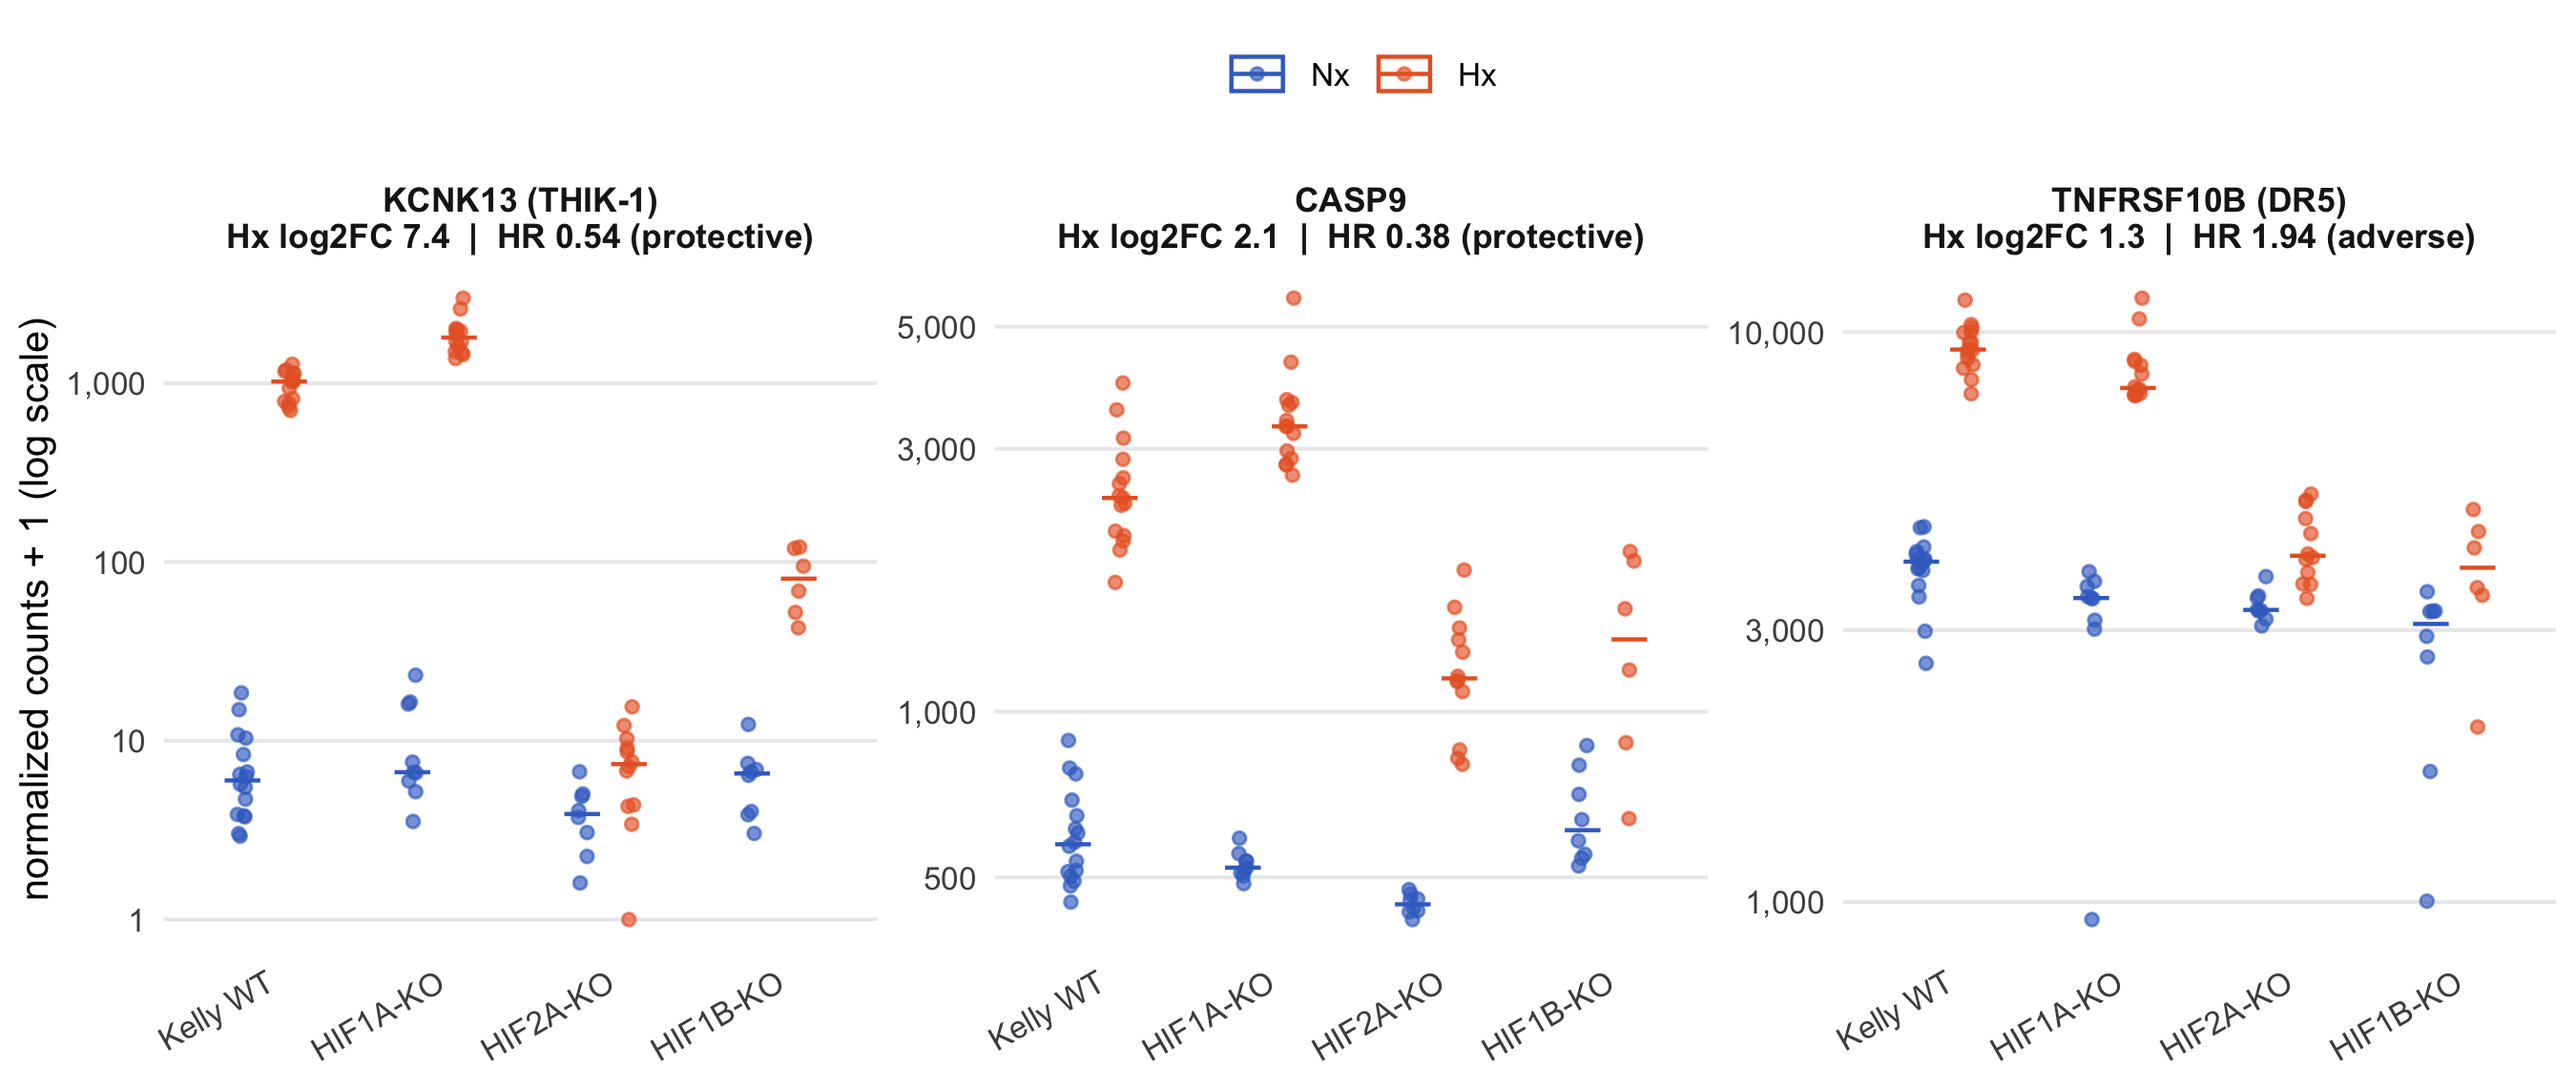
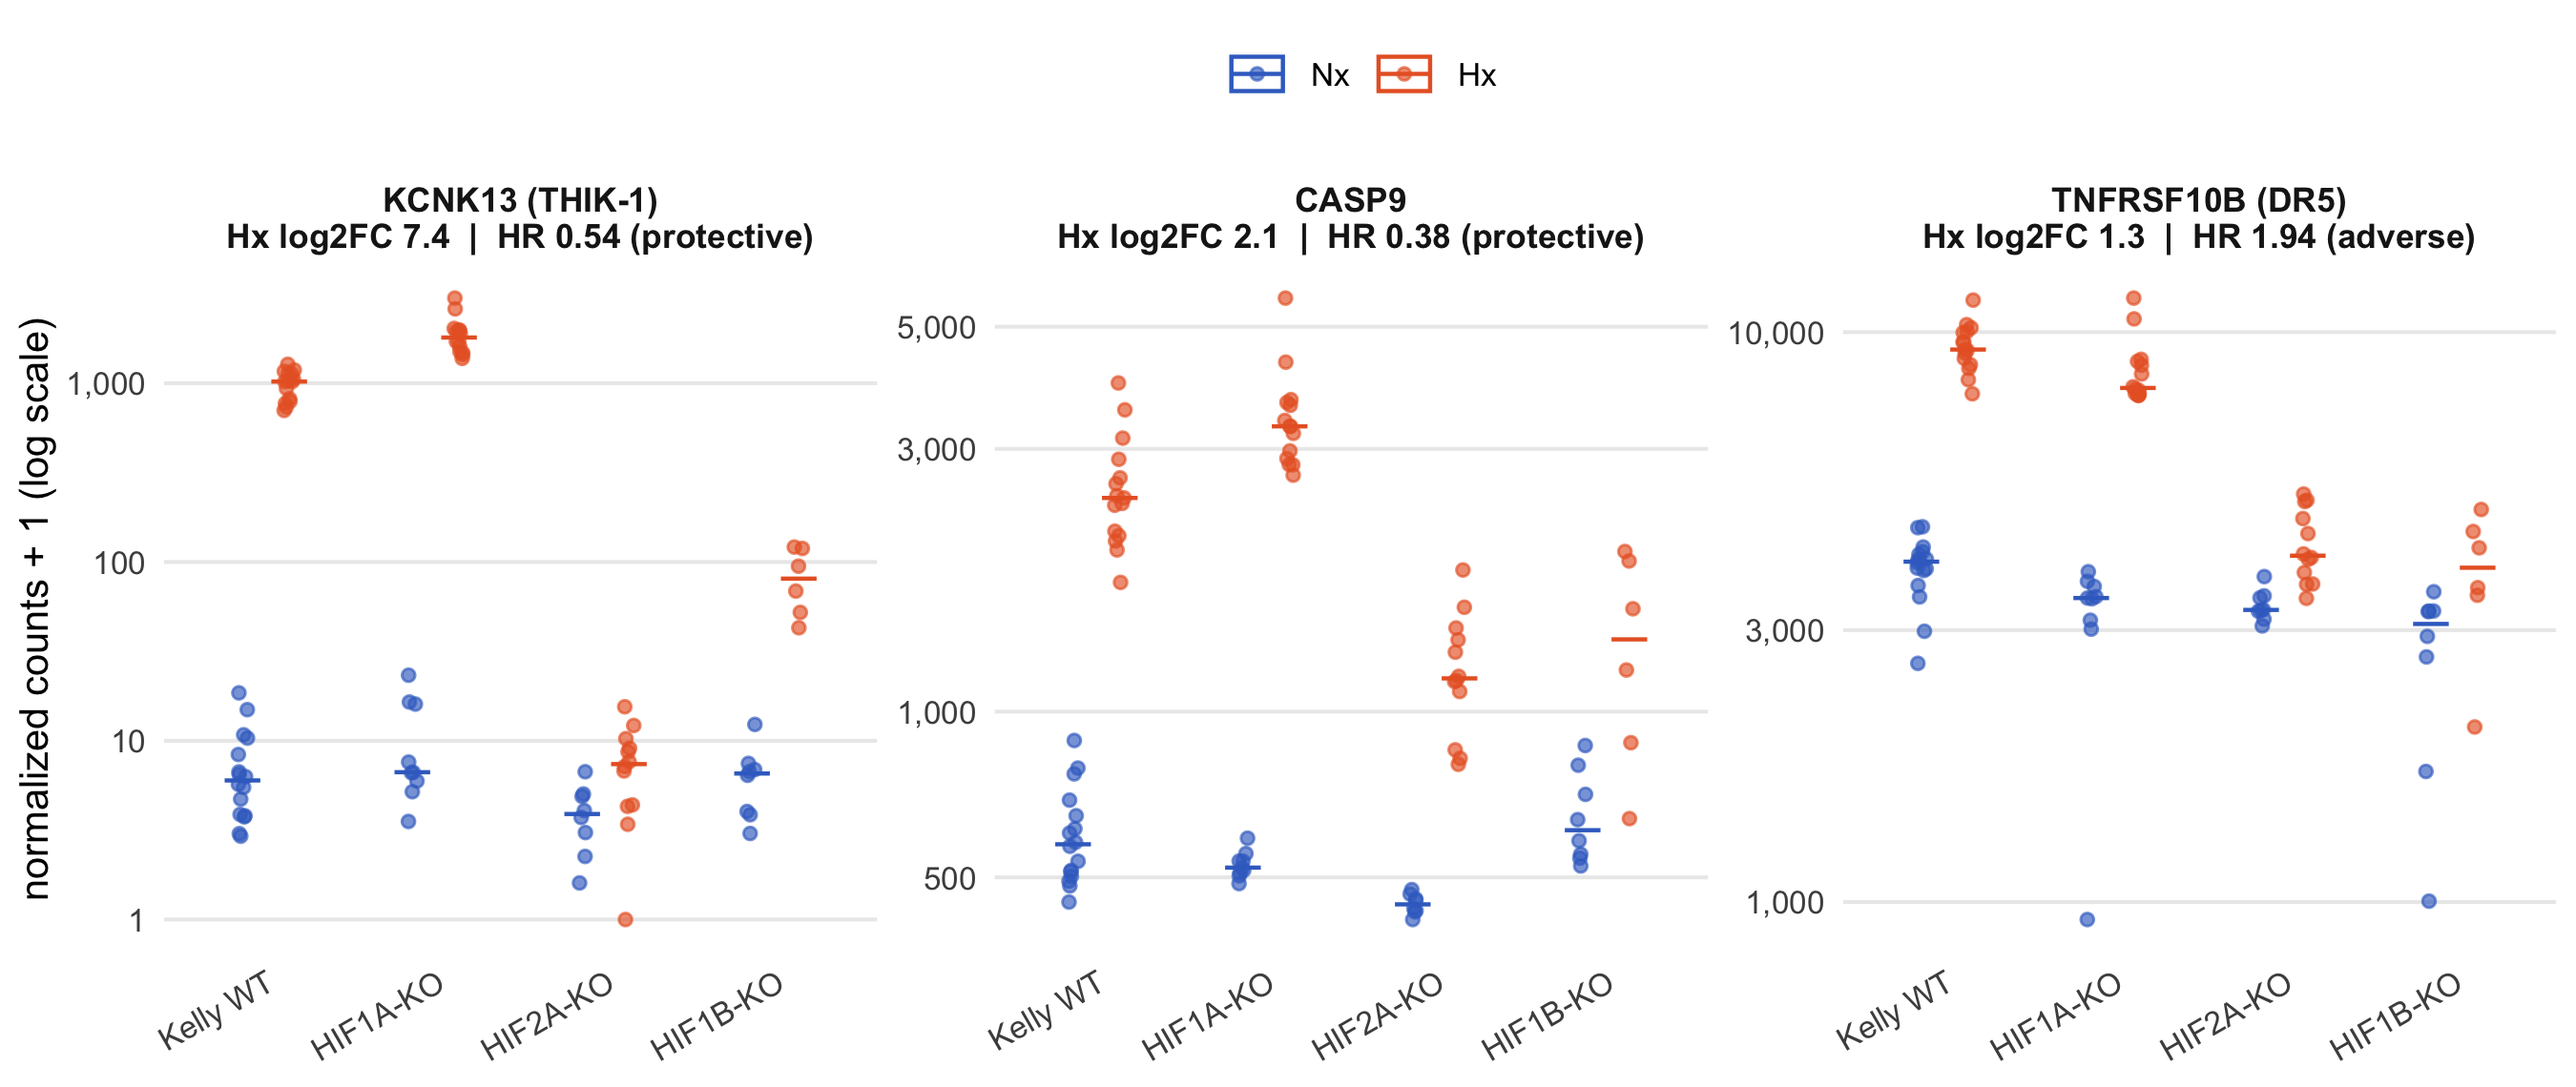
UMAP without tumour inputs, HIF1A KO panel

diff --git a/6_XM_data_merge/Dive.md b/6_XM_data_merge/Dive.md
@@ -1389,20 +1389,23 @@ the per-gene response with Kelly**
 ## 6. UMAP of all hypoxia-regulated genes
 
 All hypoxia-regulated genes (DEG in at least one of the three lines)
-with survival and tumour data, one point per gene. Unlike the heatmap
-clustering, *every* data type goes into the embedding, as four blocks:
+with survival data, one point per gene. Unlike the heatmap clustering,
+the embedding uses the HR and expression level as well, as three blocks:
 
 - **log2 Hx vs Nx** in the six panels (three lines, three KOs)
 - **log2 HR**
 - **log10 baseMean** in the three lines
-- **tumours**, as three contrasts of the mean z: MYCN amplified − not,
-  non-amp MYCN high − low, deceased − event-free (the seven group means
-  are largely redundant)
+
+The tumour data are left out: their contrasts are almost the same
+variable as the HR (the HR comes from the same cohort, Spearman 0.86 -
+0.95), so they would let the clinical axis enter several times. MYCN
+amplification is shown as a colour only.
 
 Every column is scaled, and every block is divided by √(number of
 columns), so each block weighs the same regardless of how many columns
 it has. The panels show the same embedding, coloured by one variable
-each.
+each; the KO panels show the difference of the Hx response between the
+KO and Kelly WT.
 
 <details>
 
@@ -1421,13 +1424,11 @@ tum_contrast <- cbind(
   `deceased - event-free` = tum_grp_mean[, "deceased (91)"]      - tum_grp_mean[, "event-free (323)"])
 log2_hr <- setNames(log2(hr_vals$HR), hr_vals$Ensembl)
 bm_mat  <- base_means %>% tibble::column_to_rownames("Ensembl") %>% as.matrix()
-umap_ens <- Reduce(intersect, list(umap_ens, rownames(tum_contrast),
-                                   names(log2_hr)[!is.na(log2_hr)]))
+umap_ens <- intersect(umap_ens, names(log2_hr)[!is.na(log2_hr)])
 
 umap_blocks <- list(log2     = hx_resp_all[umap_ens, ],
                     HR       = cbind(log2HR = log2_hr[umap_ens]),
-                    baseMean = log10(bm_mat[umap_ens, ] + 1),
-                    tumours  = tum_contrast[umap_ens, ])
+                    baseMean = log10(bm_mat[umap_ens, ] + 1))
 umap_x <- do.call(cbind, lapply(umap_blocks, function(b) scale(b) / sqrt(ncol(b))))
 set.seed(1)
 umap_xy <- uwot::umap(umap_x, n_neighbors = 30, min_dist = 0.3)
@@ -1436,11 +1437,11 @@ ud <- tibble(Ensembl = umap_ens, U1 = umap_xy[, 1], U2 = umap_xy[, 2],
              target   = ifelse(umap_ens %in% names(targets), targets[umap_ens], "none"),
              pattern  = hx_pattern(umap_ens),
              kelly    = hx_resp_all[umap_ens, "Kelly"],
+             hif1a_ko = hx_resp_all[umap_ens, "HIF1A KO"] - hx_resp_all[umap_ens, "Kelly"],
              hif2a_ko = hx_resp_all[umap_ens, "HIF2A KO"] - hx_resp_all[umap_ens, "Kelly"],
              bm       = log10(bm_mat[umap_ens, "Kelly"] + 1),
              hr       = log2_hr[umap_ens],
-             amp      = tum_contrast[umap_ens, 1],
-             outcome  = tum_contrast[umap_ens, 3])
+             amp      = tum_contrast[match(umap_ens, rownames(tum_contrast)), 1])
 
 umap_theme <- list(theme_void(base_size = 11), coord_equal(),
                    theme(legend.position = "bottom", plot.background = element_rect(fill = "white", colour = NA),
@@ -1457,7 +1458,8 @@ umap_num <- function(col, lim, title, name, low = "#2166AC", high = "#B2182B") {
   ggplot(ud %>% dplyr::arrange(abs(.data[[col]])), aes(U1, U2, colour = .data[[col]])) +
     geom_point(size = 0.35) +
     scale_colour_gradient2(low = low, mid = "grey90", high = high, limits = c(-lim, lim),
-                           breaks = brk, oob = scales::squish, name = name, guide = hm_guide) +
+                           breaks = brk, oob = scales::squish, name = name, guide = hm_guide,
+                           na.value = "grey97") +
     ggtitle(title) + umap_theme
 }
 
@@ -1465,13 +1467,13 @@ umap_cat("target", c(grp_cols[c("HIF1A", "both", "HIF2A")], none = "grey85"), "H
   umap_cat("pattern", c(`all 3 lines` = "#E41A1C", `Kelly + 1 line` = "#FF7F00",
                         `Kelly only` = "#377EB8", `SK/SH only` = "#4DAF4A"), "Responding lines") +
   umap_num("kelly", 3, "Hypoxia response in Kelly", "log2 Hx vs Nx") +
+  umap_num("hif1a_ko", 2, "HIF1A KO vs Kelly WT", "log2 difference") +
   umap_num("hif2a_ko", 2, "HIF2A KO vs Kelly WT", "log2 difference") +
   (ggplot(ud %>% dplyr::arrange(bm), aes(U1, U2, colour = bm)) + geom_point(size = 0.35) +
      scale_colour_gradient(low = "#EFEDF5", high = "#3F007D", name = "log10 baseMean", guide = hm_guide) +
      ggtitle("Expression in Kelly") + umap_theme) +
   umap_num("hr", 1, "Hazard ratio", "log2 HR", low = "#4DAC26", high = "#D01C8B") +
-  umap_num("amp", 0.8, "Tumours: MYCN amp - not", "mean z") +
-  umap_num("outcome", 0.5, "Tumours: deceased - event-free", "mean z") +
+  umap_num("amp", 0.8, "Tumours: MYCN amp - not (colour only)", "mean z") +
   patchwork::plot_layout(nrow = 2)
 ```
 
@@ -1479,43 +1481,36 @@ umap_cat("target", c(grp_cols[c("HIF1A", "both", "HIF2A")], none = "grey85"), "H
 
 ![](Dive_files/figure-gfm/hx_umap-1.png)<!-- -->
 
-**Spearman correlation between the UMAP inputs (5938 genes)**
+**Spearman correlation between response, HR, expression and the tumour
+contrasts (5941 genes)**
 
 | feature | Kelly | log2HR | baseMean | MYCN amp - not | MYCN high - low | deceased - event-free |
 |:---|---:|---:|---:|---:|---:|---:|
 | Kelly | 1.00 | -0.25 | -0.05 | -0.23 | -0.09 | -0.24 |
-| log2HR | -0.25 | 1.00 | 0.08 | 0.86 | -0.06 | 0.95 |
-| baseMean | -0.05 | 0.08 | 1.00 | 0.08 | 0.23 | 0.06 |
+| log2HR | -0.25 | 1.00 | 0.07 | 0.86 | -0.06 | 0.95 |
+| baseMean | -0.05 | 0.07 | 1.00 | 0.08 | 0.23 | 0.06 |
 | MYCN amp - not | -0.23 | 0.86 | 0.08 | 1.00 | 0.02 | 0.88 |
 | MYCN high - low | -0.09 | -0.06 | 0.23 | 0.02 | 1.00 | -0.13 |
 | deceased - event-free | -0.24 | 0.95 | 0.06 | 0.88 | -0.13 | 1.00 |
 
 What the embedding shows:
 
-- **Two islands = direction of the hypoxia response.** Left the induced
-  genes, right the repressed ones. Nearly all HIF targets sit in the
-  left island, and the genes induced in all three lines form a small
-  dense tip at its top.
-- **Within each island the main axis is clinical**, running from
-  protective (green HR, lower in MYCN-amplified and fatal tumours) to
-  adverse (magenta, higher there). HR, MYCN amp − not and deceased −
-  event-free are almost the same variable (Spearman 0.86 - 0.95, table
-  above): the hazard ratios come from the same tumour cohort, and MYCN
-  amplification dominates the fatal cases. So this axis effectively
-  enters three times, which is why it shapes the map so strongly.
-- **The hypoxia response is nearly independent of it** (Spearman with HR
-  −0.25): strongly induced genes occur at both ends, with a mild tilt
-  toward protective. The repressed island carries the adverse,
-  MYCN-amp-high genes seen in the heatmaps.
-- **Expression level** runs top (high) to bottom (low) within the
-  induced island, a separate third axis; the “Kelly only” genes collect
-  at the low-expression bottom.
-- **HIF2A KO vs WT**: induced genes lose their response (blue),
-  repressed genes lose their repression (red) - the KO flattens both
-  directions.
-
-If the clinical axis should not dominate, keep only one of HR / tumour
-contrasts in the input.
+- **Two islands = direction of the hypoxia response.** Left the
+  repressed genes, right the induced ones, with nearly all HIF targets.
+  Within the induced island the response gets stronger toward the bottom
+  right, where the genes induced in all three lines collect; “Kelly
+  only” genes fill the weaker top part.
+- **HIF1A vs HIF2A KO.** The HIF2A KO flattens the response broadly:
+  induced genes lose their induction (blue) and repressed genes their
+  repression (red). The HIF1A KO acts much more locally, mainly on the
+  strongly induced shared genes at the bottom right.
+- **The HR splits the repressed island** into an adverse upper part
+  (highly expressed, high in MYCN-amplified tumours) and a protective
+  lower part. In the induced island the HR is scattered: adverse and
+  protective genes sit side by side and are not separated by their
+  hypoxia response.
+- The MYCN-amp colour, not used for the embedding, follows the HR
+  closely.
 
 # Hypoxia-induced genes: protective or adverse?
 
